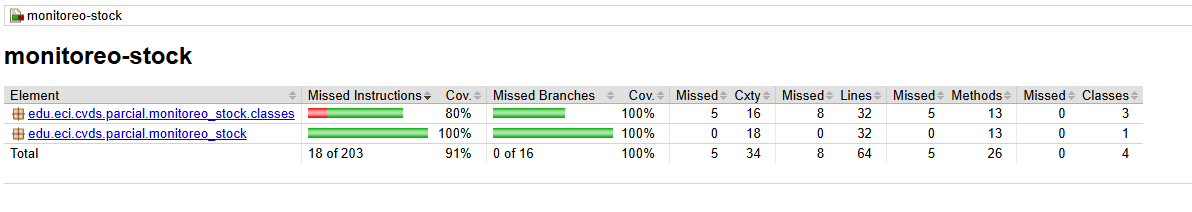
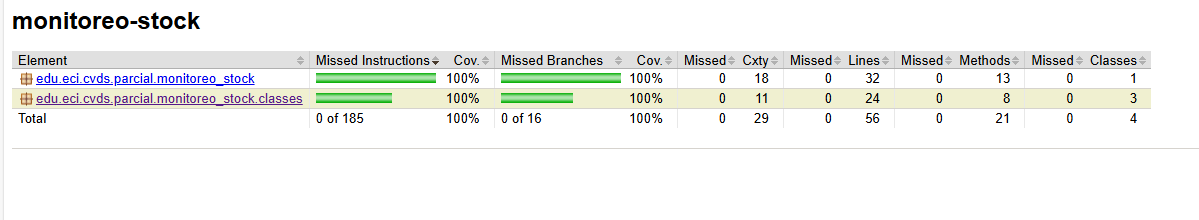
Ultimo avance

diff --git a/src/main/java/edu/eci/cvds/parcial/monitoreo_stock/classes/Product.java b/src/main/java/edu/eci/cvds/parcial/monitoreo_stock/classes/Product.java
@@ -16,17 +16,6 @@ public class Product {
     public String getName() {
         return name;
     }
-    public void setName(String name) {
-        this.name = name;
-    }
-
-    public int getPrice() {
-        return price;
-    }
-
-    public void setPrice(int price) {
-        this.price = price;
-    }
 
     public int getQuantity() {
         return quantity;
@@ -36,11 +25,4 @@ public class Product {
         this.quantity = quantity;
     }
 
-    public String getCategory() {
-        return category;
-    }
-
-    public void setCategory(String category) {
-        this.category = category;
-    }
 }
